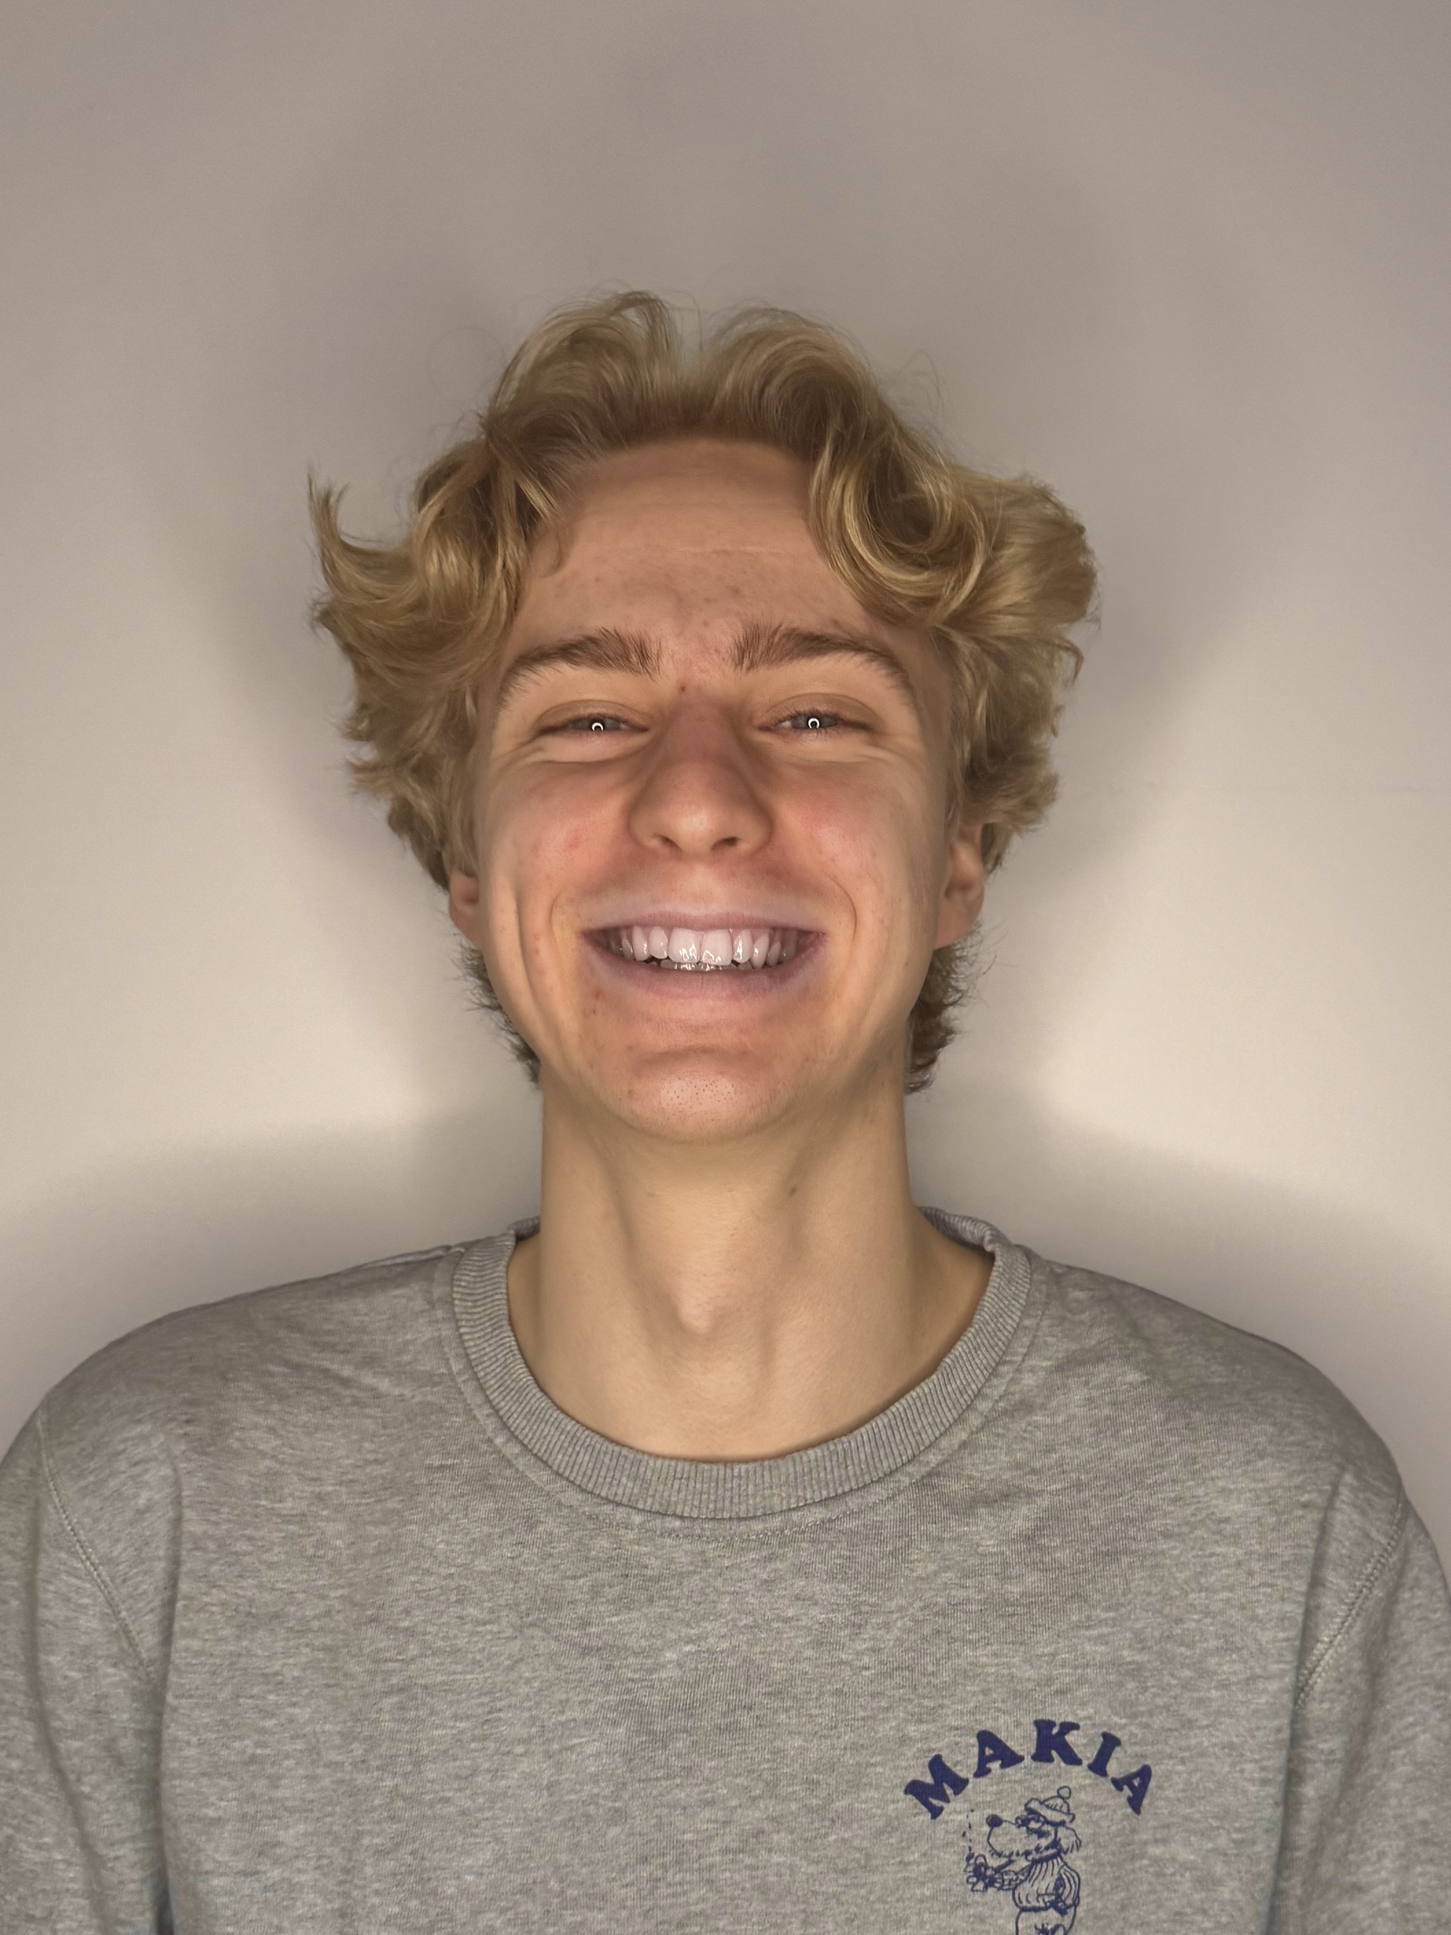
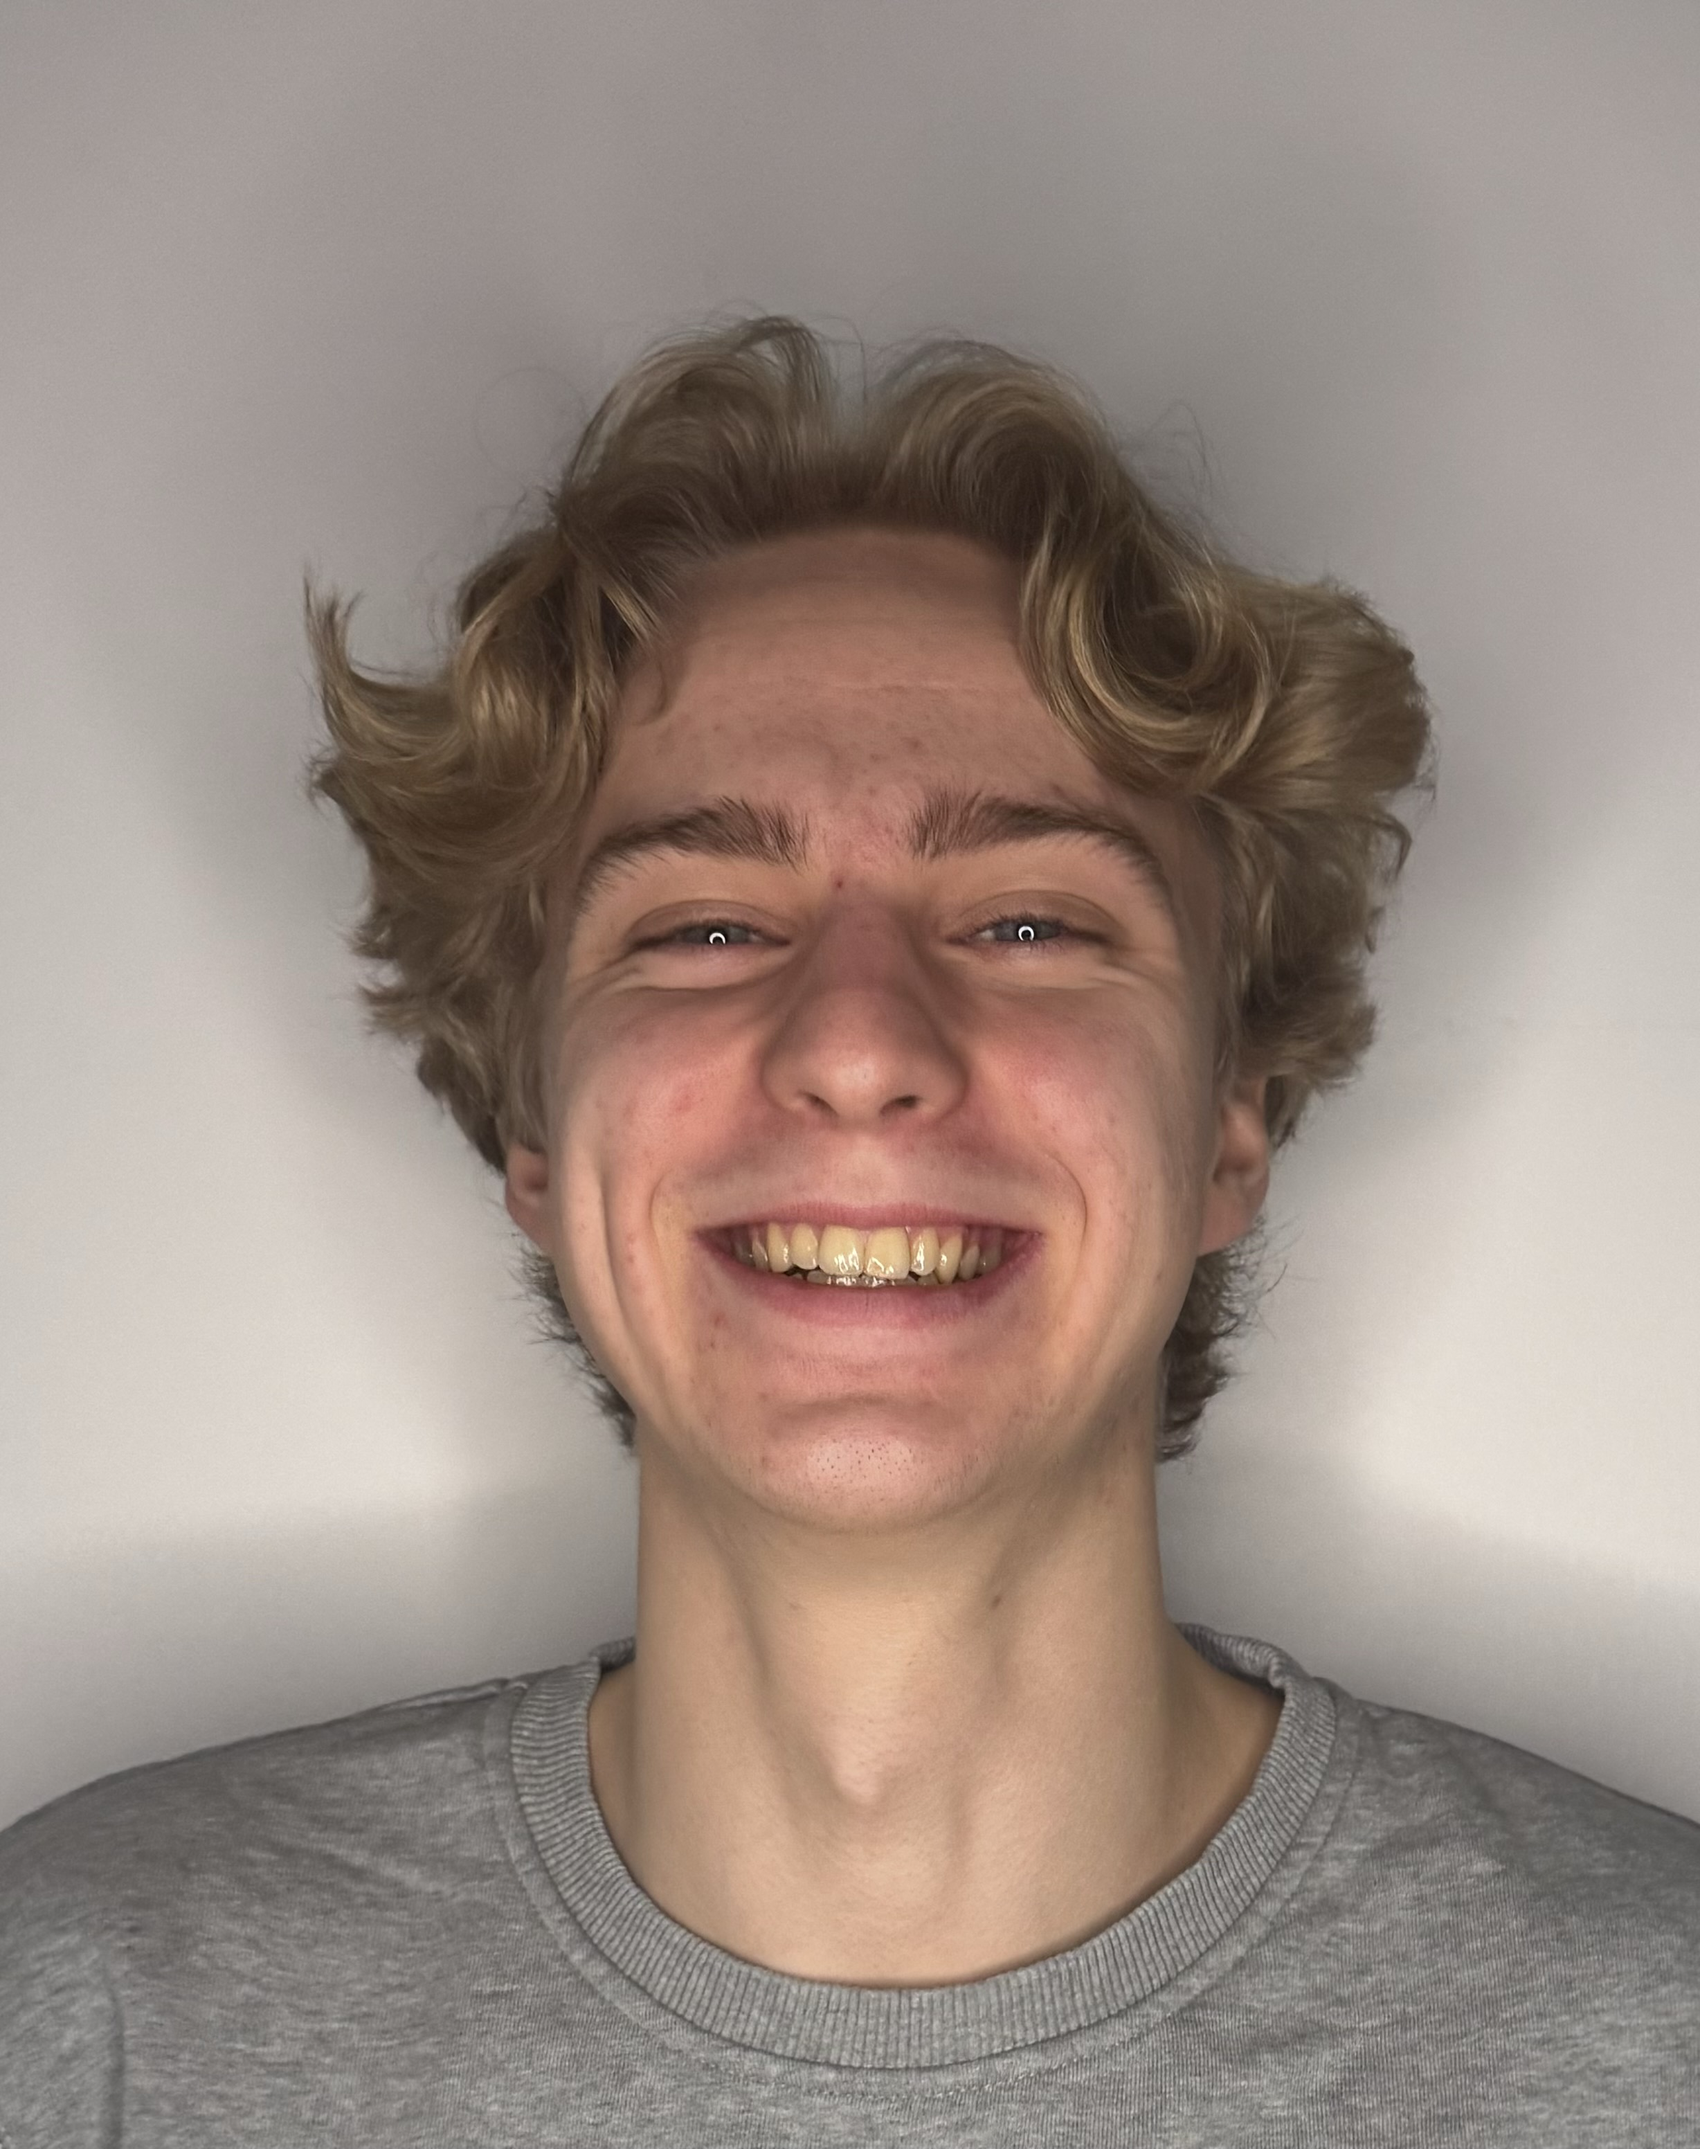
Update Alexandr profile photo and fix mobile menu styling
- Replace Alexandr's profile photo with new image
- Fix mobile menu to use white background with dark text when open

🤖 Generated with [Claude Code](https://claude.com/claude-code)

diff --git a/src/components/layout/Navbar.tsx b/src/components/layout/Navbar.tsx
@@ -15,8 +15,8 @@ export const Navbar: React.FC = () => {
   const lightBackgroundPages = ['/contact'];
   const isLightBackground = lightBackgroundPages.includes(location.pathname);
 
-  // Show dark theme when scrolled OR on light background pages
-  const useDarkTheme = isScrolled || isLightBackground;
+  // Show dark theme when scrolled OR on light background pages OR mobile menu is open
+  const useDarkTheme = isScrolled || isLightBackground || isMobileMenuOpen;
 
   useEffect(() => {
     const handleScroll = () => {
